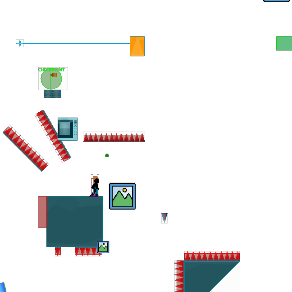
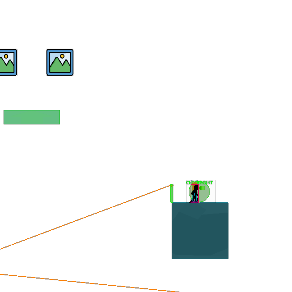
NO MESSAGE SET

diff --git a/readme.md b/readme.md
@@ -98,7 +98,7 @@ This is a game that i made to be an improvement to the games [vex](https://www.n
   - **block_z_down**: same as block_z_up but moves it down instead of up.
   - **invert_single_axis_align**: hold while moving a block to invert the value of singleAxisAlignByDefault.
   - **edit_level_mods**: press to toggle the level mod editor on and off.
-  - **save_current_location_as_last_checkpoint**: when pressed will save the players current location as a temporary checkpoint
+  - **activate_temporary_checkpoint**: when pressed will save the players current location as a temporary checkpoint
   - **copy_block_position**: copies the last selected blocks position
   - **copy_block_scale**: copies the last selected blocks scale
   - **copy_block_rotation**: copies the last selected blocks rotation
